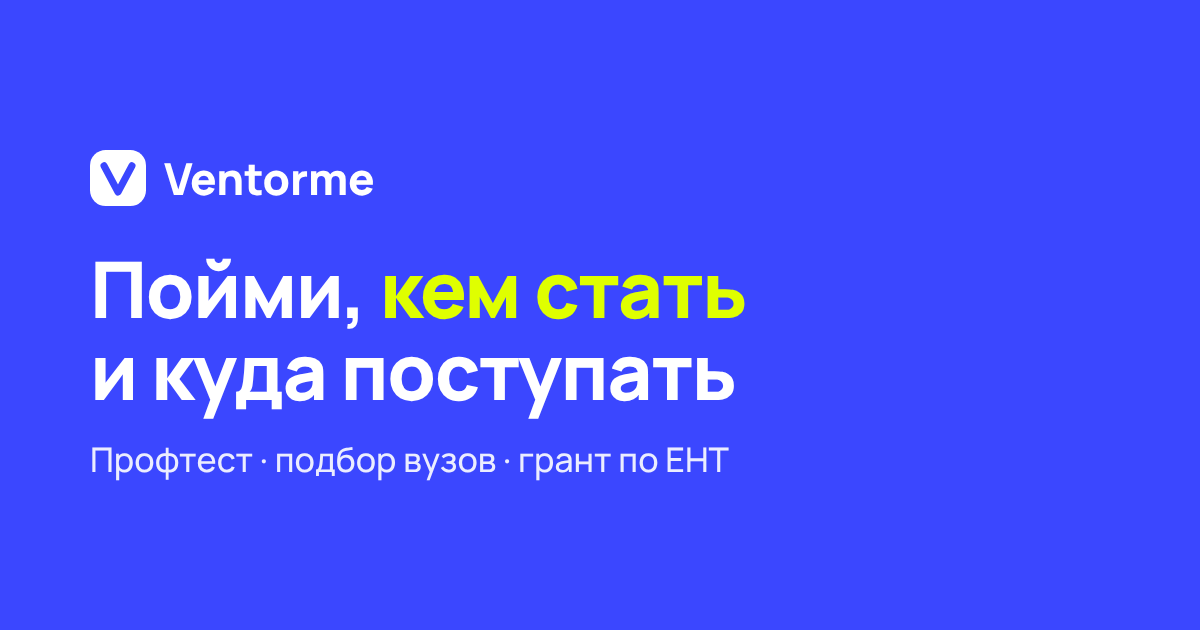
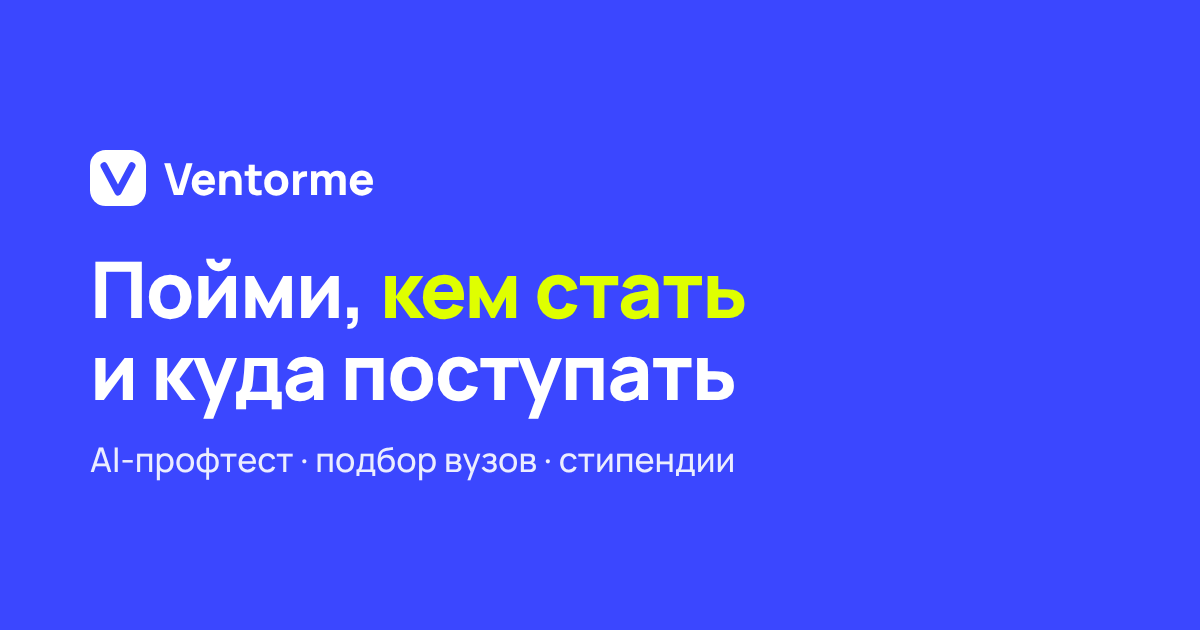
Make landing claims match Ventorme's free plan
After registering through the team link we saw the essay builder,
IELTS/SAT prep center and admission plan are locked on the free plan.
The page now promises only what is free: AI profession test, AI
university matching, scholarships and daily Venti questions.

Claude-Session: https://claude.ai/code/session_01LConvSeDkECvMaZpnstnVd

Changed region(s): [[0.0617, 0.6937, 0.6167, 0.754]]

diff --git a/index.html b/index.html
@@ -4,10 +4,10 @@
 <meta charset="utf-8">
 <meta name="viewport" content="width=device-width, initial-scale=1, viewport-fit=cover">
 <title>Ventorme — пойми, кем стать и куда поступать</title>
-<meta name="description" content="Профтест, подбор вузов, шансы на грант по ЕНТ, подготовка к IELTS и SAT — всё в Ventorme. Начни бесплатно.">
+<meta name="description" content="AI-профтест, подбор вузов и стипендии — всё в Ventorme. Начни бесплатно.">
 <meta property="og:type" content="website">
 <meta property="og:title" content="Ventorme — пойми, кем стать и куда поступать">
-<meta property="og:description" content="Профтест, подбор вузов и шансы на грант по ЕНТ в одном месте. Начни бесплатно.">
+<meta property="og:description" content="AI-профтест, подбор вузов и стипендии в одном месте. Начни бесплатно.">
 <meta property="og:url" content="https://mametaeverzat014-cell.github.io/hacknext-litvinchik-bratanchik/">
 <meta property="og:image" content="https://mametaeverzat014-cell.github.io/hacknext-litvinchik-bratanchik/og-image.png">
 <meta property="og:image:width" content="1200">
@@ -140,9 +140,9 @@
       <small>профориентация и поступление</small>
     </div>
     <h1>Пойми, <span>кем стать</span> и куда поступать</h1>
-    <p class="lead">Профтест, подбор вузов и шансы на грант по ЕНТ — в одном месте.</p>
+    <p class="lead">AI-профтест, подбор вузов и стипендии — в одном месте. Начать можно бесплатно.</p>
     <a class="btn btn-white js-reg" href="https://ventorme.ai/register?utm_source=hacknext&amp;utm_campaign=team-111">Начать бесплатно →</a>
-    <p class="note">Вход через Google или по почте · после регистрации ответь на пару вопросов</p>
+    <p class="note">Вход через Google или по почте · после регистрации заполни короткий профиль</p>
   </div>
 </header>
 
@@ -153,23 +153,22 @@
     <div class="picker" role="group" aria-label="Выбери, что нужно">
       <button class="pick" type="button" aria-pressed="false" data-a="a1">🎯 Выбрать профессию</button>
       <button class="pick" type="button" aria-pressed="false" data-a="a2">🏛 Подобрать вуз</button>
-      <button class="pick" type="button" aria-pressed="false" data-a="a3">📊 Шансы на грант по ЕНТ</button>
-      <button class="pick" type="button" aria-pressed="false" data-a="a4">🌍 IELTS и SAT</button>
+      <button class="pick" type="button" aria-pressed="false" data-a="a3">📊 Стипендии и гранты</button>
+      <button class="pick" type="button" aria-pressed="false" data-a="a4">🌍 Учёба за границей</button>
     </div>
     <div class="answer" id="a1" hidden><p><b>Профтест</b> покажет, какие профессии тебе подходят. Не знаешь, кем быть — начни с него.</p><a class="btn btn-blue js-reg" href="https://ventorme.ai/register?utm_source=hacknext&amp;utm_campaign=team-111">Пройти профтест</a></div>
     <div class="answer" id="a2" hidden><p><b>Подбор вузов</b> поможет найти университеты под твою профессию и твои баллы.</p><a class="btn btn-blue js-reg" href="https://ventorme.ai/register?utm_source=hacknext&amp;utm_campaign=team-111">Подобрать вуз</a></div>
-    <div class="answer" id="a3" hidden><p><b>Калькулятор гранта по ЕНТ</b> прикинет твои шансы на грант.</p><a class="btn btn-blue js-reg" href="https://ventorme.ai/register?utm_source=hacknext&amp;utm_campaign=team-111">Узнать шансы</a></div>
-    <div class="answer" id="a4" hidden><p><b>Подготовка к IELTS и SAT</b> — если хочешь учиться за границей. Плюс помощь с мотивационным эссе.</p><a class="btn btn-blue js-reg" href="https://ventorme.ai/register?utm_source=hacknext&amp;utm_campaign=team-111">Начать подготовку</a></div>
+    <div class="answer" id="a3" hidden><p><b>Стипендии и гранты</b>: добавь результаты ЕНТ — и смотри, на что можно претендовать.</p><a class="btn btn-blue js-reg" href="https://ventorme.ai/register?utm_source=hacknext&amp;utm_campaign=team-111">Смотреть стипендии</a></div>
+    <div class="answer" id="a4" hidden><p><b>Подбор вузов с AI</b> — бесплатно. Центр подготовки к IELTS и SAT и конструктор эссе есть в платном тарифе.</p><a class="btn btn-blue js-reg" href="https://ventorme.ai/register?utm_source=hacknext&amp;utm_campaign=team-111">Подобрать вузы</a></div>
   </section>
 
   <section aria-labelledby="get-h">
-    <h2 id="get-h">Что ты получишь после регистрации</h2>
+    <h2 id="get-h">Что есть бесплатно после регистрации</h2>
     <ul class="list">
-      <li><b>Профтест</b><span>Какие профессии подходят именно тебе</span></li>
-      <li><b>Подбор вузов</b><span>Куда поступать с твоей профессией</span></li>
-      <li><b>Калькулятор гранта по ЕНТ</b><span>Хватит ли баллов на грант</span></li>
-      <li><b>IELTS и SAT, помощь с эссе</b><span>Для поступления за границу</span></li>
-      <li><b>ИИ-помощник Venti</b><span>Можно задать любой вопрос про поступление</span></li>
+      <li><b>AI-профтест</b><span>Какие профессии подходят именно тебе</span></li>
+      <li><b>Подбор вузов с AI</b><span>Куда поступать с твоей профессией</span></li>
+      <li><b>Стипендии</b><span>Гранты и стипендии, на которые можно претендовать</span></li>
+            <li><b>ИИ-помощник Venti</b><span>Несколько бесплатных вопросов каждый день</span></li>
     </ul>
   </section>
 
@@ -177,21 +176,21 @@
     <h2 id="how-h">Как это работает</h2>
     <ol class="steps">
       <li><div><b>Регистрируешься</b><p>Через Google в одно касание или по почте.</p></div></li>
-      <li><div><b>Отвечаешь на несколько вопросов</b><p>Это займёт пару минут — по ответам Ventorme соберёт твой план.</p></div></li>
-      <li><div><b>Получаешь результаты</b><p>Профессии, вузы и шансы на грант — в личном кабинете.</p></div></li>
+      <li><div><b>Заполняешь короткий профиль</b><p>Интересы и цели — по ним Ventorme подбирает рекомендации.</p></div></li>
+      <li><div><b>Проходишь профтест и подбираешь вузы</b><p>Подходящие профессии и университеты — в личном кабинете.</p></div></li>
     </ol>
   </section>
 
   <section aria-labelledby="faq-h">
     <h2 id="faq-h">Частые вопросы</h2>
-    <details><summary>Это бесплатно?</summary><p>Начать можно бесплатно. Есть и платный тариф с дополнительными возможностями — покупать его не обязательно.</p></details>
+    <details><summary>Это бесплатно?</summary><p>Да: профтест, подбор вузов с AI и стипендии бесплатны. Конструктор эссе, центр подготовки и план поступления — в платном тарифе, покупать его не обязательно.</p></details>
     <details><summary>Для кого это?</summary><p>Для школьников, которые выбирают профессию и вуз — в Казахстане или за границей.</p></details>
-    <details><summary>Что если я уже знаю, куда поступать?</summary><p>Тогда пригодятся подбор вузов и калькулятор гранта по ЕНТ: проверь, хватает ли баллов и какие есть варианты.</p></details>
+    <details><summary>Что если я уже знаю, куда поступать?</summary><p>Тогда пригодятся подбор вузов с AI и стипендии: посмотри, какие есть варианты.</p></details>
   </section>
 
   <div class="final">
-    <h2>Займёт пару минут</h2>
-    <p>Зарегистрируйся и ответь на вопросы — получишь свой план поступления.</p>
+    <h2>Начни бесплатно</h2>
+    <p>Зарегистрируйся и заполни профиль — получишь подбор профессий и вузов.</p>
     <a class="btn btn-white js-reg" href="https://ventorme.ai/register?utm_source=hacknext&amp;utm_campaign=team-111">Начать бесплатно →</a>
   </div>
 

diff --git a/AI_LOG.md b/AI_LOG.md
@@ -6,3 +6,4 @@ One line per task. The jury will ask how we used AI, and this is our record. The
 |---|---|---|---|---|
 | 2026-10-11 | captain | Claude Code | Wrote CLAUDE.md (landing rules) and this log from the team plan | |
 | 2026-10-11 | captain | Claude Code | Built landing v1 (index.html, og-image.png): first screen with button, "what do you need" picker, in-app browser hint, team-111 link everywhere | |
+| 2026-10-11 | captain | Claude Code | Rewrote landing claims to match the free plan seen after registering (essay builder, IELTS/SAT prep, admission plan are paid); updated preview image | Registered once via the team link and screenshotted the dashboard |
